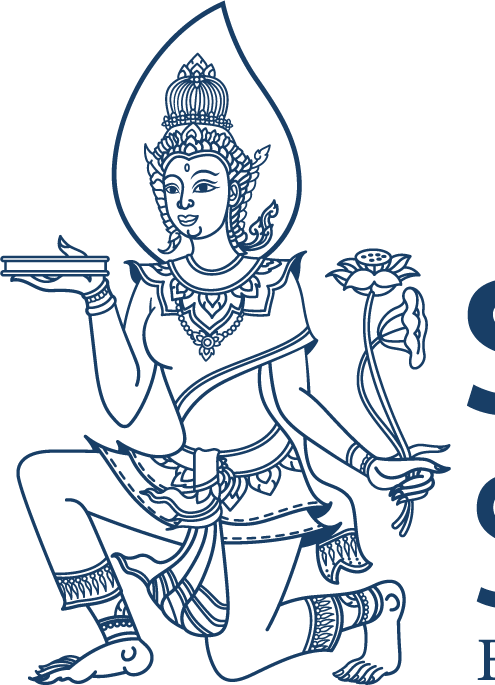
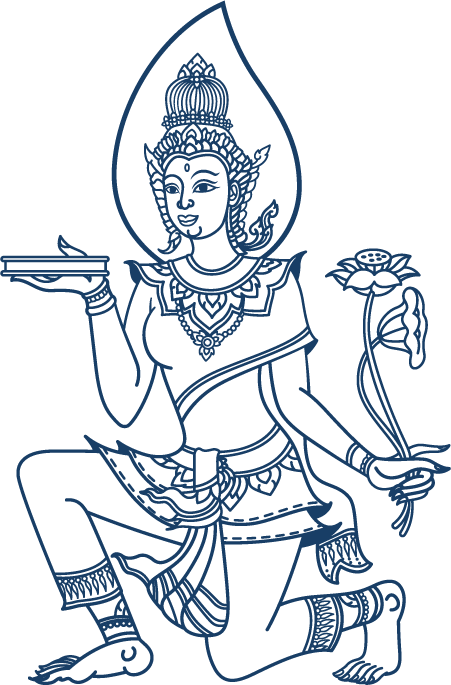
fix(signage): remove artifact dots from emblem assets and bump cache to v3.2

diff --git a/public/tv/index.html b/public/tv/index.html
@@ -6,10 +6,10 @@
   <title>Android TV Signage Player</title>
   <link rel="manifest" href="manifest.json">
   <meta name="theme-color" content="#091b30">
-  <link rel="stylesheet" href="style.css?v=3.1">
+  <link rel="stylesheet" href="style.css?v=3.2">
   <script>
     if ('serviceWorker' in navigator) {
-      navigator.serviceWorker.register('sw.js').catch(err => console.log('SW reg fail:', err));
+      navigator.serviceWorker.register('sw.js?v=3.2').catch(err => console.log('SW reg fail:', err));
     }
   </script>
 </head>
@@ -18,7 +18,7 @@
     <!-- Top Header Bar (School Brand Identity) -->
     <header id="top-header-bar">
       <div class="header-brand">
-        <img src="assets/images/emblem-white.png" alt="ตราโรงเรียนสมคิดวิทยา" style="height: 72px; width: auto; max-width: 72px; object-fit: contain; flex-shrink: 0;" class="header-emblem-img">
+        <img src="assets/images/emblem-white.png?v=3.2" alt="ตราโรงเรียนสมคิดวิทยา" style="height: 72px; width: auto; max-width: 72px; object-fit: contain; flex-shrink: 0;" class="header-emblem-img">
         <div class="header-text-block">
           <div class="header-school-name-th">โรงเรียนสมคิดวิทยา</div>
           <div class="header-school-name-en">SOMKIDVITTAYA SCHOOL <span class="header-est">• EST. 1960</span></div>
@@ -38,7 +38,7 @@
 
     <!-- Standby screen when no media is scheduled -->
     <div id="standby-screen">
-      <img src="assets/images/emblem-white.png" alt="Somkidvittaya School" class="standby-logo-img" style="max-height: 80px; width: auto; object-fit: contain;" onerror="this.style.display='none'">
+      <img src="assets/images/emblem-white.png?v=3.2" alt="Somkidvittaya School" class="standby-logo-img" style="max-height: 80px; width: auto; object-fit: contain;" onerror="this.style.display='none'">
       <div class="standby-title">โรงเรียนสมคิดวิทยา (Somkidvittaya School)</div>
       <div class="standby-status" id="standby-status-text">กำลังซิงก์ข้อมูลกับ SV Portal...</div>
       <div class="device-badge" id="standby-device-id">DEVICE: -</div>
@@ -47,7 +47,7 @@
     <!-- Bottom Ticker Bar -->
     <div id="ticker-bar">
       <div class="ticker-label">
-        <img src="assets/images/emblem-navy.png" alt="ตราโรงเรียนสมคิดวิทยา" style="height: 52px; width: auto; max-width: 52px; object-fit: contain; flex-shrink: 0;" class="ticker-emblem-icon">
+        <img src="assets/images/emblem-navy.png?v=3.2" alt="ตราโรงเรียนสมคิดวิทยา" style="height: 52px; width: auto; max-width: 52px; object-fit: contain; flex-shrink: 0;" class="ticker-emblem-icon">
         <div class="ticker-school-brand">
           <span class="ticker-brand-th">โรงเรียนสมคิดวิทยา</span>
           <span class="ticker-brand-en">SOMKIDVITTAYA</span>
@@ -81,6 +81,6 @@
     </div>
   </div>
 
-  <script src="player.js?v=3.1"></script>
+  <script src="player.js?v=3.2"></script>
 </body>
 </html>

diff --git a/public/tv/sw.js b/public/tv/sw.js
@@ -1,5 +1,5 @@
 // Android TV Signage Offline Cache Service Worker
-const CACHE_NAME = 'sv-signage-v8';
+const CACHE_NAME = 'sv-signage-v9';
 const STATIC_ASSETS = [
   '/tv/',
   '/tv/index.html',
